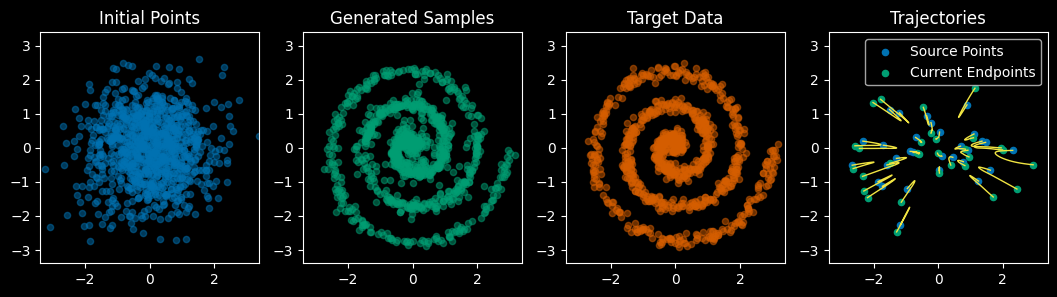
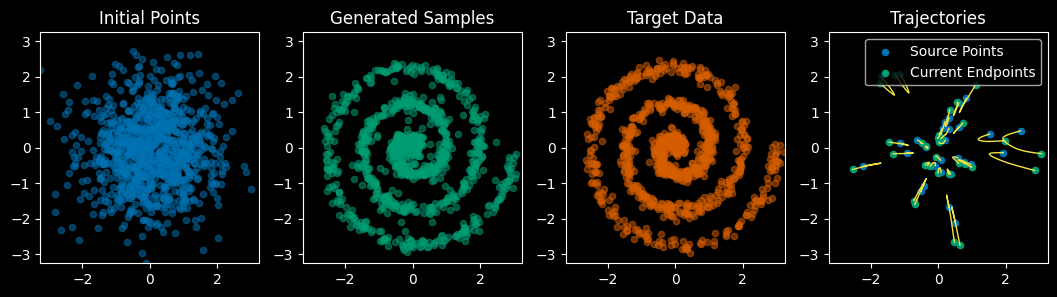
Built site for gh-pages

diff --git a/posts/FlowModels.html b/posts/FlowModels.html
@@ -884,7 +884,7 @@ Terminology: “Simulation Free”
 <p><img src="FlowModels_files/figure-html/cell-13-output-1.png" class="img-fluid"></p>
 </div>
 <div class="cell-output cell-output-stdout">
-<pre><code>Epoch [100/100], Loss: 1.8103</code></pre>
+<pre><code>Epoch [100/100], Loss: 1.8636</code></pre>
 </div>
 </div>
 <p>Here’s an animation of our model integrating the flow from start to finish:</p>
@@ -1385,7 +1385,7 @@ Terminology: “Simulation Free”
 <span id="cb23-8"><a href="#cb23-8" aria-hidden="true" tabindex="-1"></a>    figsize <span class="op">=</span> [<span class="dv">5</span>,<span class="dv">5</span>]</span>
 <span id="cb23-9"><a href="#cb23-9" aria-hidden="true" tabindex="-1"></a>    <span class="cf">if</span> titles <span class="kw">is</span> <span class="va">None</span>: </span>
 <span id="cb23-10"><a href="#cb23-10" aria-hidden="true" tabindex="-1"></a>        titles <span class="op">=</span> [<span class="st">'Flow Matching'</span>]</span>
-<span id="cb23-11"><a href="#cb23-11" aria-hidden="true" tabindex="-1"></a>        <span class="cf">if</span> model2: titles <span class="op">+=</span> [<span class="st">'Rectified Flow'</span>]</span>
+<span id="cb23-11"><a href="#cb23-11" aria-hidden="true" tabindex="-1"></a>        <span class="cf">if</span> model2: titles <span class="op">+=</span> [<span class="st">'Reflowed Model'</span>]</span>
 <span id="cb23-12"><a href="#cb23-12" aria-hidden="true" tabindex="-1"></a>    <span class="cf">if</span> model2: </span>
 <span id="cb23-13"><a href="#cb23-13" aria-hidden="true" tabindex="-1"></a>        figsize[<span class="dv">0</span>] <span class="op">*=</span> <span class="dv">2</span></span>
 <span id="cb23-14"><a href="#cb23-14" aria-hidden="true" tabindex="-1"></a>    n_plots <span class="op">=</span> <span class="dv">1</span> <span class="op">+</span> (model2 <span class="kw">is</span> <span class="kw">not</span> <span class="va">None</span>)</span>

diff --git a/extra/FlowModels_colab.html b/extra/FlowModels_colab.html
@@ -1183,7 +1183,7 @@ details > summary {
 <span id="cb28-9"><a href="#cb28-9" aria-hidden="true" tabindex="-1"></a>    figsize <span class="op">=</span> [<span class="dv">5</span>,<span class="dv">5</span>]</span>
 <span id="cb28-10"><a href="#cb28-10" aria-hidden="true" tabindex="-1"></a>    <span class="cf">if</span> titles <span class="kw">is</span> <span class="va">None</span>:</span>
 <span id="cb28-11"><a href="#cb28-11" aria-hidden="true" tabindex="-1"></a>        titles <span class="op">=</span> [<span class="st">'Flow Matching'</span>]</span>
-<span id="cb28-12"><a href="#cb28-12" aria-hidden="true" tabindex="-1"></a>        <span class="cf">if</span> model2: titles <span class="op">+=</span> [<span class="st">'Rectified Flow'</span>]</span>
+<span id="cb28-12"><a href="#cb28-12" aria-hidden="true" tabindex="-1"></a>        <span class="cf">if</span> model2: titles <span class="op">+=</span> [<span class="st">'Reflowed Model'</span>]</span>
 <span id="cb28-13"><a href="#cb28-13" aria-hidden="true" tabindex="-1"></a>    <span class="cf">if</span> model2:</span>
 <span id="cb28-14"><a href="#cb28-14" aria-hidden="true" tabindex="-1"></a>        figsize[<span class="dv">0</span>] <span class="op">*=</span> <span class="dv">2</span></span>
 <span id="cb28-15"><a href="#cb28-15" aria-hidden="true" tabindex="-1"></a>    n_plots <span class="op">=</span> <span class="dv">1</span> <span class="op">+</span> (model2 <span class="kw">is</span> <span class="kw">not</span> <span class="va">None</span>)</span>

diff --git a/index.html b/index.html
@@ -182,7 +182,7 @@ details > summary {
 
 <div class="quarto-listing quarto-listing-container-default" id="listing-listing">
 <div class="list quarto-listing-default">
-<div class="quarto-post image-right" data-index="0" data-categories="generative,flows,diffusion" data-listing-date-sort="1731477600000" data-listing-file-modified-sort="1731525560845" data-listing-date-modified-sort="NaN" data-listing-reading-time-sort="18">
+<div class="quarto-post image-right" data-index="0" data-categories="generative,flows,diffusion" data-listing-date-sort="1731477600000" data-listing-file-modified-sort="1731530026218" data-listing-date-modified-sort="NaN" data-listing-reading-time-sort="18">
 <div class="thumbnail">
 <p><a href="./posts/FlowModels.html"> <img src="./posts/images/flow_gaussian_to_spiral.png" class="thumbnail-image"> </a></p>
 </div>
